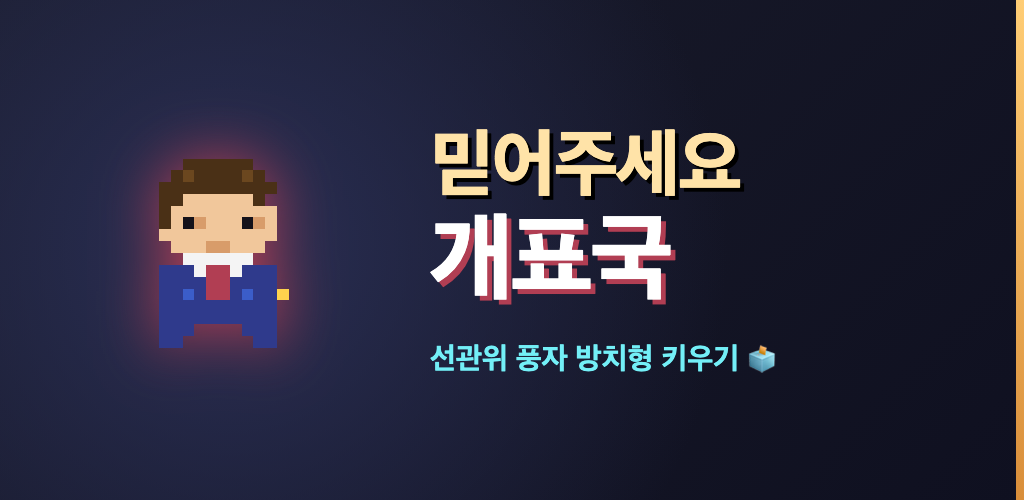
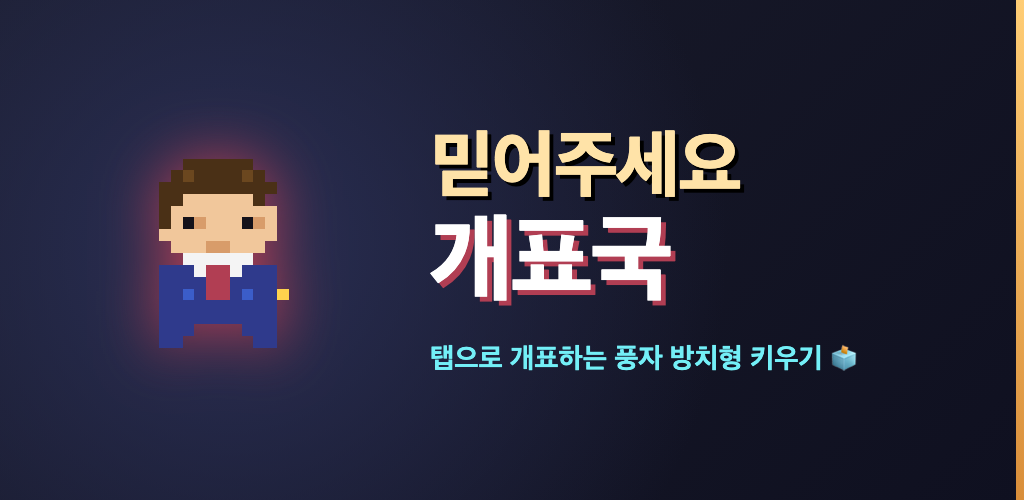
legal: 리스크 0 — 기관·지명 픽션화 + 면책 고지 + 문구 완화
플레이어 노출 '선관위'→'개표국/중앙개표청', '청와대 영빈관'→'중앙 관저 영빈관'(실존 기관·장소
지목 0). 오프닝·지도에 창작 픽션 면책 문구. '실화 모티프'→'영감받은 각색'. 스토어 문구·피처
그래픽 완화 + 면책. 실존 인물·정당 지목 0(감사 완료).

diff --git a/src/data/events.js b/src/data/events.js
@@ -388,7 +388,7 @@ export const officeEvents = [
     right: ["스피드런", { votes: 1500, trust: -11 }, "최고 속도로 주파합니다. 기록은 남지만 잡음도."],
   },
 
-  // ── 실화 모티프 선관위 풍자(운영·행정 이슈를 위트있게, 정치 중립) ──
+  // ── 실화 모티프 개표국 풍자(운영·행정 이슈를 위트있게, 정치 중립) ──
   {
     id: "basket-incident",
     title: "소쿠리 운반 사태",
@@ -480,7 +480,7 @@ export const officeEvents = [
     right: ["쓰던 용지로", { votes: 320, trust: -6 }, "기존 용지를 고수합니다. 잔소리가 이어집니다."],
   },
 
-  // ── 선관위·개표 실화 모티프 (추가분, 정치 중립) ───────────────
+  // ── 개표국·개표 실화 모티프 (추가분, 정치 중립) ───────────────
   {
     id: "broadcast-bug",
     title: "개표방송 그래픽 사고",
@@ -647,8 +647,8 @@ export const officeEvents = [
   },
   {
     id: "phishing-text",
-    title: "선관위 사칭 문자",
-    body: "'당첨! 개표 결과 미리보기 ▶ 클릭' 선관위를 사칭한 스미싱 문자가 전국에 살포됐습니다.",
+    title: "개표국 사칭 문자",
+    body: "'당첨! 개표 결과 미리보기 ▶ 클릭' 개표국를 사칭한 스미싱 문자가 전국에 살포됐습니다.",
     weight: 5,
     minStage: 6,
     left: ["공식채널 공지", { explain: -18, trust: 12 }, "'우리는 링크를 보내지 않습니다' 전 국민 공지를 띄웁니다. 신뢰가 오릅니다."],
@@ -665,7 +665,7 @@ export const officeEvents = [
   },
 ];
 
-// "실화 모티프" 사건 — UI에서 🏛 배지로 구분(실제 선관위/개표 이슈를 위트로 각색, 정치 중립)
+// "실화 모티프" 사건 — UI에서 🏛 배지로 구분(실제 개표국/개표 이슈를 위트로 각색, 정치 중립)
 export const realEventIds = new Set([
   "recount-demand", "observer-note", "rumor-online",
   "basket-incident", "hand-recount-system", "nepotism-hire", "security-audit",

diff --git a/src/ui/DOMMapModal.js b/src/ui/DOMMapModal.js
@@ -77,7 +77,7 @@ export class DOMMapModal {
       ["오프라인 적립", `${offH}시간`],
     ].map(([k, v]) => `<div class="gp-stat-row"><span>${k}</span><b>${v}</b></div>`).join("");
 
-    // 사건 도감 — 겪은(해결한) 선관위 사건 수집 현황(영구). 미수집은 잠금 표시.
+    // 사건 도감 — 겪은(해결한) 개표국 사건 수집 현황(영구). 미수집은 잠금 표시.
     const total = officeEvents.length;
     const seenN = gs.seenEventCount();
     const dexPct = Math.round(gs.dexBonusPct() * 100);
@@ -109,7 +109,7 @@ export class DOMMapModal {
         <div class="gp-dex__tip">수집한 사건을 눌러 다시 읽어보세요</div>
         <div class="gp-dex">${dexCells}</div>
       </div>
-      <div class="gp-map__foot">구역을 정복할수록 더 높은 권위의 개표소로 이동합니다</div>
+      <div class="gp-map__foot">구역을 정복할수록 더 높은 권위의 개표소로 이동합니다<br><span class="gp-disclaimer">※ 창작 픽션 — 실존 기관·인물·단체와 무관하며 비방 의도가 없습니다</span></div>
     </div>`;
   }
 
@@ -127,7 +127,7 @@ export class DOMMapModal {
     el.className = "gp-dexdt";
     el.innerHTML = `<div class="gp-dexdt__card">
       <div class="gp-dexdt__hd">${real ? "🏛 " : "📄 "}${esc(ev.title)}<button class="gp-dexdt__x" aria-label="닫기">✕</button></div>
-      <div class="gp-dexdt__meta">${real ? "실화 모티프 · " : ""}${ev.minStage || 1}구역부터 등장</div>
+      <div class="gp-dexdt__meta">${real ? "영감받은 각색 · " : ""}${ev.minStage || 1}구역부터 등장</div>
       <div class="gp-dexdt__body">${esc(ev.body)}</div>
       <div class="gp-dexdt__opts">${choice(ev.left, "A")}${choice(ev.right, "B")}</div>
       <div class="gp-dexdt__foot">눌러서 닫기</div>

diff --git a/src/data/regions.js b/src/data/regions.js
@@ -8,9 +8,9 @@ export const regions = [
   { name: "도청 대광장", desc: "재검표 요구 빗발", icon: "📢" },
   { name: "광역시 체육관", desc: "수만 표가 쏟아진다", icon: "🏟" },
   { name: "국회 앞 광장", desc: "전국이 주목", icon: "🏛" },
-  { name: "중앙선관위", desc: "권위의 본진", icon: "⚖️" },
+  { name: "중앙개표청", desc: "권위의 본진", icon: "⚖️" },
   { name: "전국 통합 개표소", desc: "역사적 동시 개표", icon: "🗳" },
-  { name: "청와대 영빈관", desc: "최고위층 방문", icon: "🏯" },
+  { name: "중앙 관저 영빈관", desc: "최고위층 방문", icon: "🏯" },
   { name: "국제 참관 개표장", desc: "세계가 지켜본다", icon: "🌐" },
   { name: "우주정거장 개표국", desc: "은하 표심까지", icon: "🛰" },
 ];

diff --git a/src/world/WorldView.js b/src/world/WorldView.js
@@ -21,7 +21,7 @@ const WORKER_SLOTS = [84, 160, 230, 306, 40, 350];
 const WORKER_SCALE = 3;
 const WORKER_Y = GROUND_Y + 4; // 바닥선(설비 선반보다 앞·아래)
 const SORTER_SCALE = BACK_SCALE; // 분류기도 뒷줄 동일 스케일
-// 국장 풍자 대사(선관위 이슈 위트, 정치 중립)
+// 국장 풍자 대사(개표국 이슈 위트, 정치 중립)
 const GOV_LINES = [
   "한 표만 믿어주세요!", "분류기는 정상입니다.", "소쿠리는 이제 그만…",
   "수검표 환영합니다.", "CCTV 다 공개할게요.", "야근 수당은 대체…",
@@ -528,7 +528,7 @@ export class WorldView {
     const bar = this.scene.add.rectangle(GAME_W / 2, y, GAME_W, 28, 0xb13e53, 0.96).setDepth(200).setScale(1, 0);
     const live = this.scene.add.rectangle(40, y, 52, 28, 0x14121c, 1).setDepth(201).setScale(1, 0);
     const liveTx = this.scene.add.text(40, y, "● 속보", { fontFamily: '"Galmuri9", monospace', fontSize: "9px", color: "#ff6a7c" }).setOrigin(0.5).setDepth(202).setAlpha(0);
-    const tx = this.scene.add.text(96, y, `${title || "선관위 사건"}`, { fontFamily: '"Galmuri9", monospace', fontSize: "10px", color: "#ffffff" }).setOrigin(0, 0.5).setDepth(202).setAlpha(0);
+    const tx = this.scene.add.text(96, y, `${title || "개표국 사건"}`, { fontFamily: '"Galmuri9", monospace', fontSize: "10px", color: "#ffffff" }).setOrigin(0, 0.5).setDepth(202).setAlpha(0);
     this.scene.tweens.add({ targets: [bar, live], scaleY: 1, duration: 150, ease: "Back.easeOut" });
     this.scene.tweens.add({ targets: [tx, liveTx], alpha: 1, duration: 200, delay: 90 });
     this._govGesture();

diff --git a/src/ui/DOMBottomPanel.js b/src/ui/DOMBottomPanel.js
@@ -258,7 +258,7 @@ export class DOMBottomPanel {
     const ev = this.currentEvent;
     if (ev) {
       const real = realEventIds.has(ev.id);
-      const realBadge = real ? `<div class="gp-event__real">🏛 실화 모티프</div>` : "";
+      const realBadge = real ? `<div class="gp-event__real">🏛 영감받은 각색</div>` : "";
       this.panel.innerHTML = `<div class="gp-event${real ? " gp-event--real" : ""}">${realBadge}<div class="gp-event__title">${ev.title}</div><div class="gp-event__body">${ev.body}</div>
         <div class="gp-event__choices">
           <button class="gp-btn gp-event__c" data-action="eventChoice" data-id="${ev.id}" data-side="left">${ev.left[0]}<small>${ev.left[2]}</small></button>

diff --git a/src/ui/dom-ui.css b/src/ui/dom-ui.css
@@ -373,3 +373,5 @@ body { background-color: var(--bg-deep); background-image: repeating-linear-grad
 .gp-rank__area { font-family: var(--f-bold); color: var(--gold-hi); }
 .gp-rank__msg { padding: 30px 16px; text-align: center; font-family: var(--f-small); font-size: 11px; color: var(--ink-soft); }
 .gp-nickinput { width: 100%; margin-top: 10px; padding: 10px; font-family: var(--f-body); font-size: 13px; background: var(--panel-sunk); color: var(--ink); border: 2px solid var(--line); box-sizing: border-box; }
+/* 창작 픽션 면책 문구 */
+.gp-disclaimer { display: block; margin-top: 8px; font-family: var(--f-small); font-size: 8px; line-height: 1.5; color: var(--ink-faint, #6b5d52); opacity: 0.85; }

diff --git a/src/ui/DOMModalLayer.js b/src/ui/DOMModalLayer.js
@@ -82,6 +82,7 @@ export class DOMModalLayer {
         <div class="gp-dots">${dots}</div>
         <button class="gp-btn gp-btn--gold" data-next>${last ? "분류 시작!" : "다음"}</button>
         ${last ? "" : `<button class="gp-skip" data-skip>건너뛰기</button>`}
+        <div class="gp-disclaimer">※ 본 게임은 창작 픽션입니다. 등장하는 기관·사건·인물은 실존과 무관하며 특정 대상을 비방할 의도가 없습니다. 일부는 공개된 사회 이슈에서 영감받아 위트있게 각색했습니다.</div>
       </div>`;
     };
     ov.addEventListener("click", (e) => {

diff --git a/store/STORE_LISTING.md b/store/STORE_LISTING.md
@@ -4,21 +4,21 @@
 믿어주세요 개표국
 
 ## 짧은 설명 (80자 이내)
-탭으로 표를 개표하고 개표국을 키우는 선관위 풍자 방치형! 도감·뽑기·랭킹까지
+탭으로 표를 개표하고 개표국을 키우는 선거·개표 소재 풍자 방치형! 도감·뽑기·랭킹까지
 
 ## 전체 설명 (4000자 이내)
-🗳️ **"믿어주세요 개표국"** — 화면을 탭해 표를 개표하고, 동네 경로당에서 시작해 중앙선관위까지 키우는 레트로 픽셀 방치형 키우기!
+🗳️ **"믿어주세요 개표국"** — 화면을 탭해 표를 개표하고, 동네 경로당에서 시작해 중앙개표청까지 키우는 레트로 픽셀 방치형 키우기!
 
-대한민국 선거판에서 실제로 있었던 사건들을 위트있게 각색한 **풍자 방치형 게임**입니다. (특정 정당·인물과 무관한 정치 중립 콘텐츠)
+대한민국 선거판에서 공개된 사회 이슈에서 영감받아 위트있게 각색한 **풍자 방치형 게임**입니다. (특정 정당·인물과 무관한 정치 중립 콘텐츠)
 
 ▣ **이렇게 즐겨요**
 · 화면을 탭탭! 표가 쏟아집니다. 연타하면 콤보 보너스
 · 접수창구·분류기·상황판 등 시설을 키우고 직원을 채용해 자동 개표
-· '소쿠리 운반', '비둘기 침입', '아빠 찬스 채용' 등 72종 선관위 사건에 대응
-· 동네 경로당 → 구청 → 국회 → 중앙선관위 → 우주정거장까지 구역 정복
+· '소쿠리 운반', '비둘기 침입', '아빠 찬스 채용' 등 72종 개표 사건에 대응
+· 동네 경로당 → 구청 → 국회 → 중앙개표청 → 우주정거장까지 구역 정복
 
 ▣ **풍부한 콘텐츠**
-· 📖 **사건 도감** — 겪은 선관위 사건을 수집(72종), 모을수록 생산 보너스
+· 📖 **사건 도감** — 겪은 개표 사건을 수집(72종), 모을수록 생산 보너스
 · 🎰 **인사 발령 뽑기** — 국장 칭호를 뽑아 능력 강화(임시직→이사관)
 · 🧑💼 **캐릭터 선택 & 꾸미기** — 3종 국장 + 모자·선글라스 등 액세서리
 · 🚩 **공산주의 리셋** — 믿음이 바닥나면 체제 전복?! 긴장감 있는 실패 요소
@@ -56,3 +56,6 @@
 
 ## 개인정보처리방침 URL
 store/privacy.html 을 호스팅한 URL (아래 '호스팅 방법' 참고)
+
+## 면책 고지 (설명 하단 권장)
+※ 본 게임은 창작 픽션입니다. 등장하는 기관·사건·인물은 실존과 무관하며 특정 개인·정당·기관을 비방할 의도가 없습니다. 일부 설정은 공개된 사회 이슈에서 영감을 받아 위트있게 각색한 것입니다.